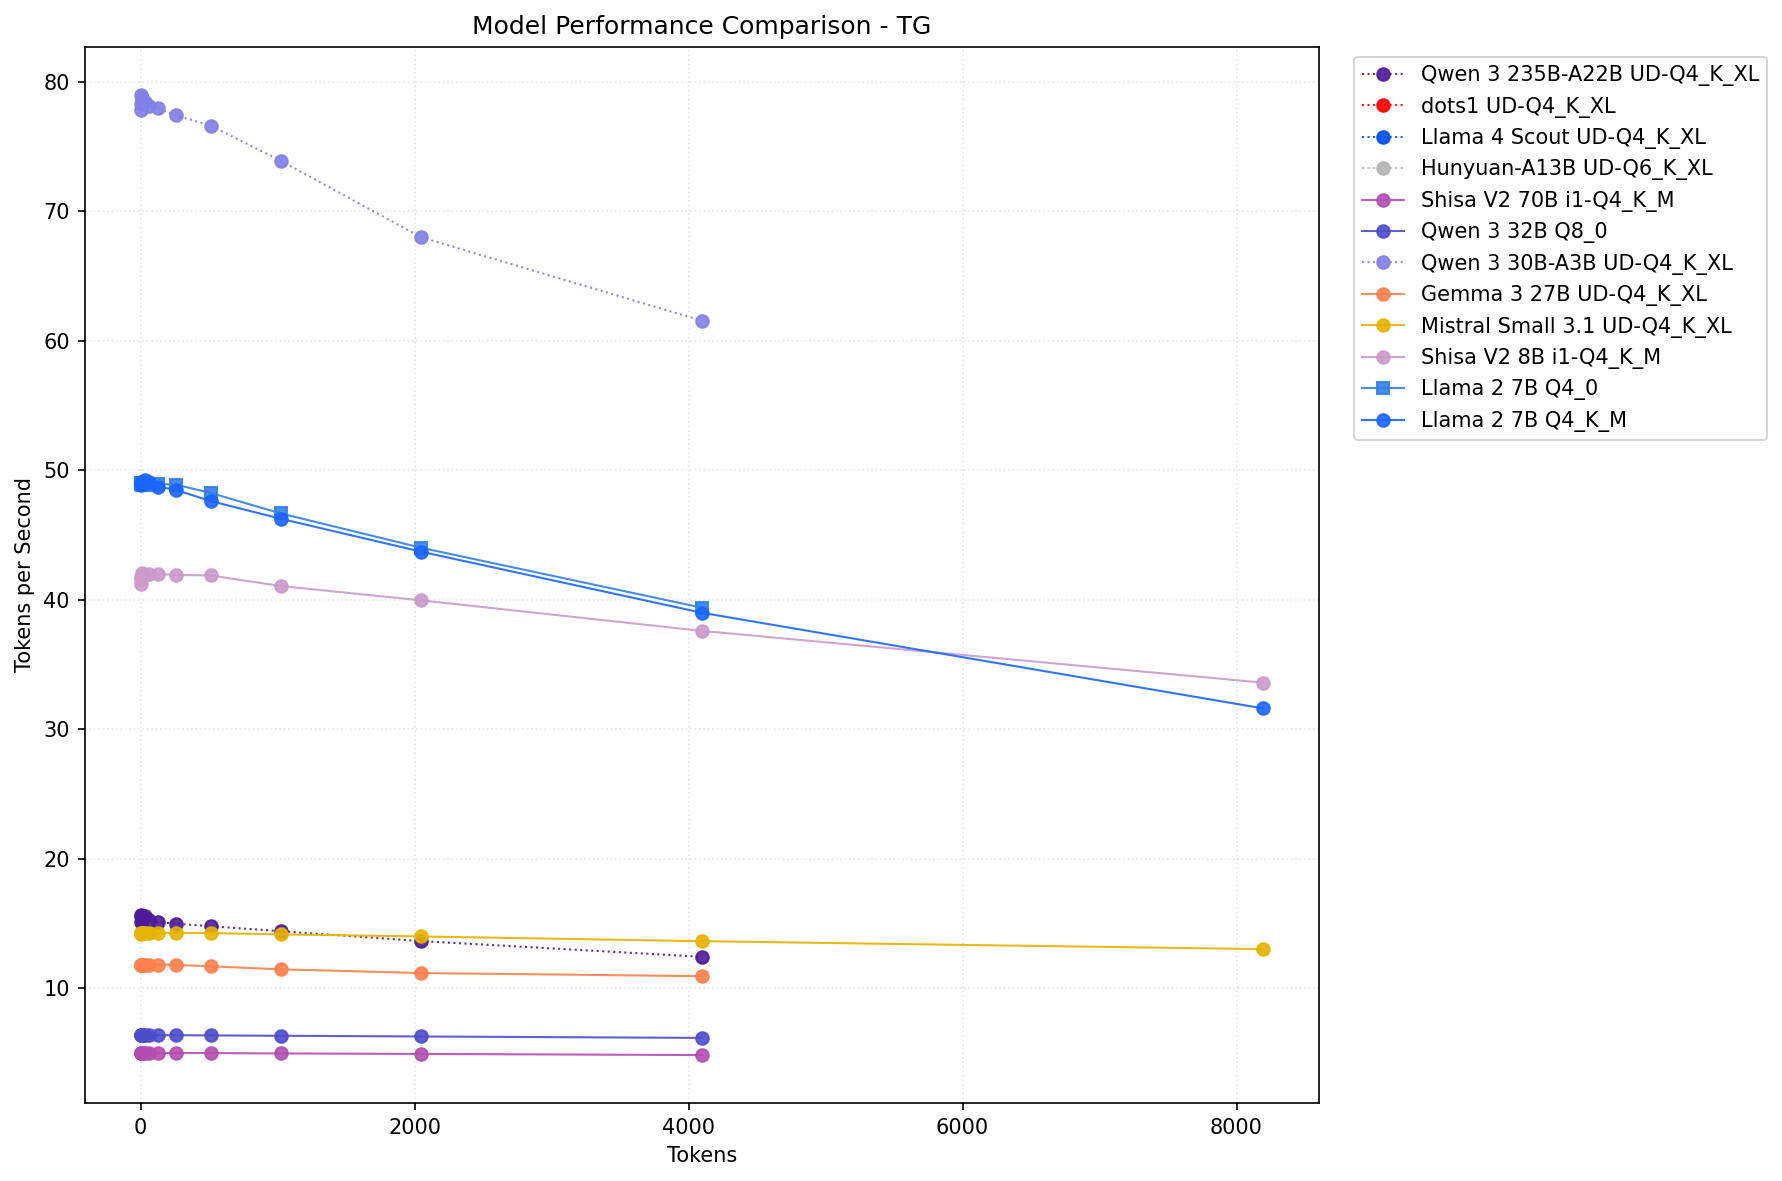
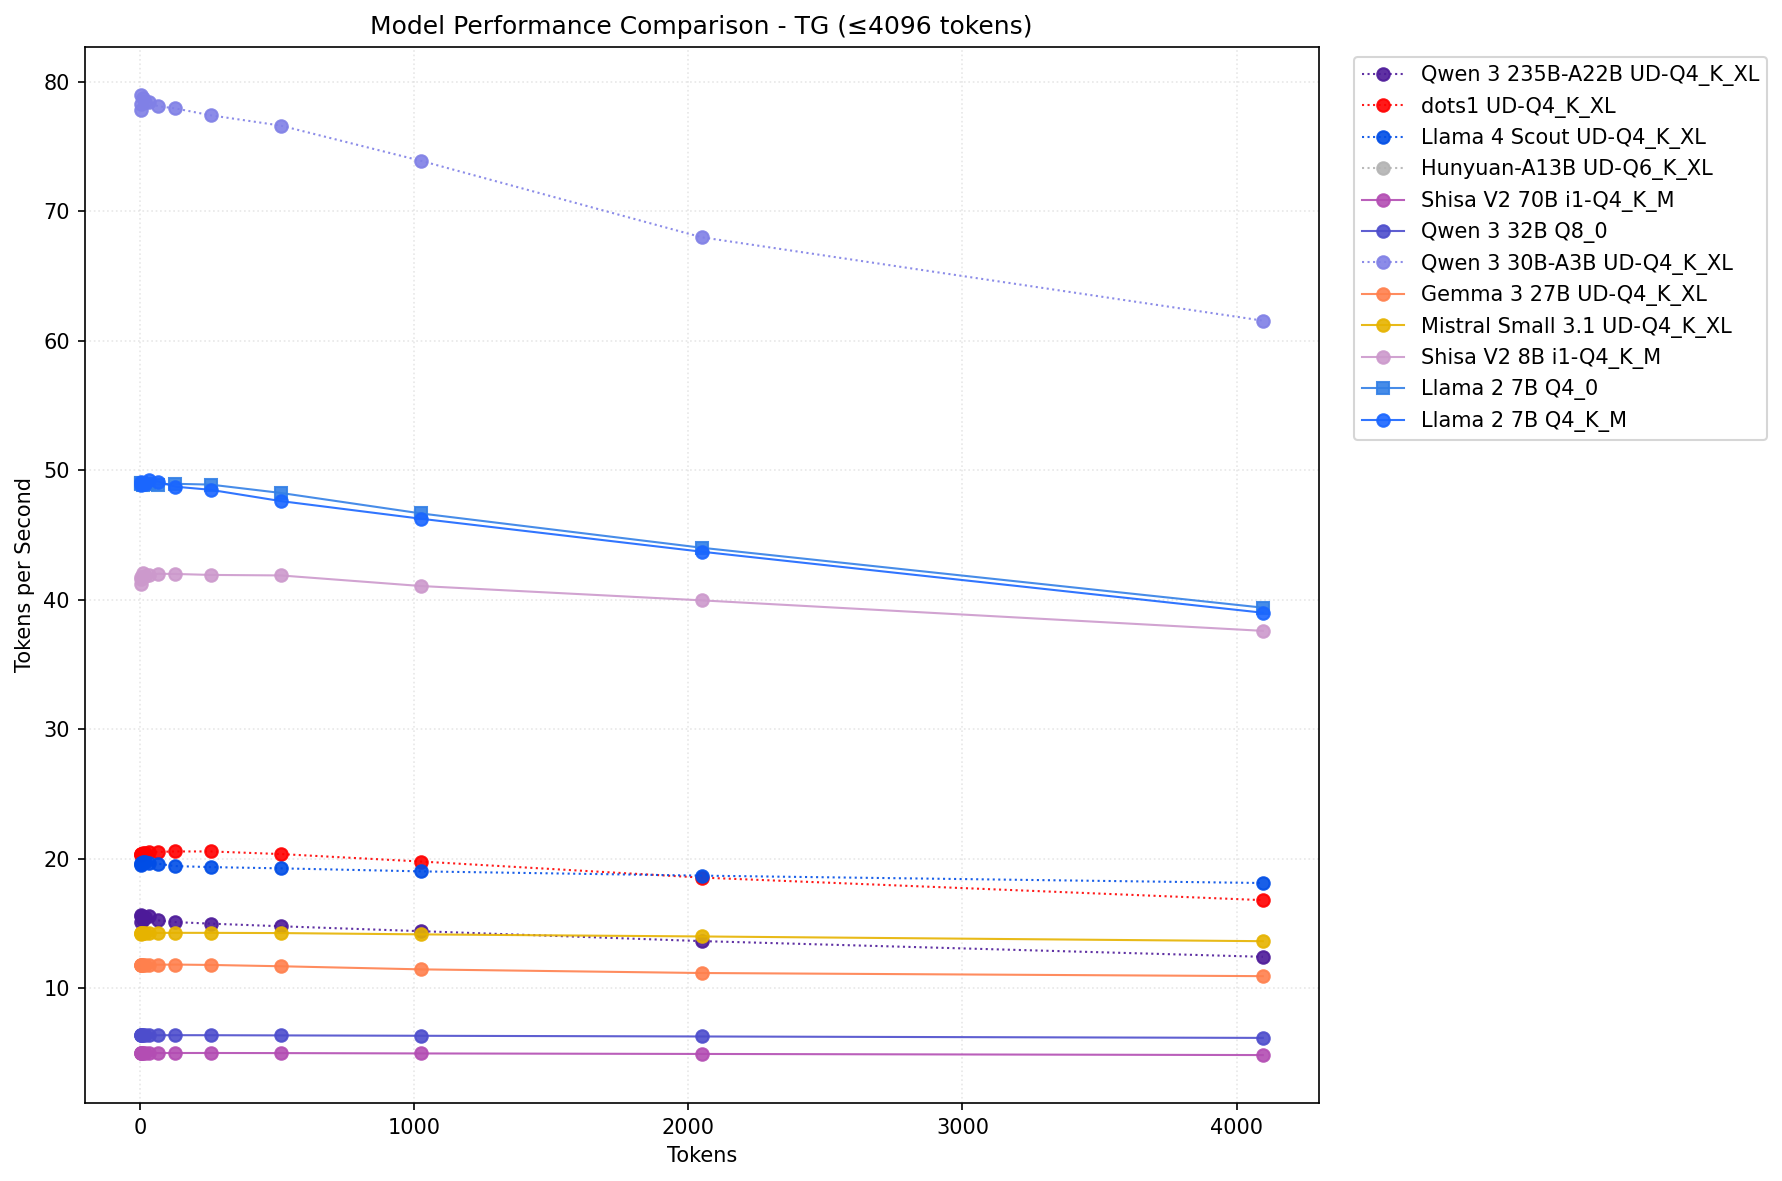
updated results

diff --git a/llm-bench/README.md b/llm-bench/README.md
@@ -70,30 +70,30 @@ You can reference the `[llama-cpp-bencher.py](llama-cpp-bencher.py)` directly fo
 
 | Model Name                   | Architecture   |   Weights (B) |   Active (B) | Backend     | Flags          |   pp512 |   tg128 |   Memory (Max MiB) |
 |------------------------------|----------------|---------------|--------------|-------------|----------------|---------|---------|--------------------|
-| dots1 UD-Q4_K_XL             | dots1 MoE      |           142 |           14 | Vulkan      | fa=1 b=256     |   nan   |   nan   |                161 |
-| Llama 4 Scout UD-Q4_K_XL     | Llama 4 MoE    |           109 |           17 | HIP         | hipBLASLt      |   nan   |   nan   |                161 |
 | Hunyuan-A13B UD-Q6_K_XL      | Hunyuan MoE    |            80 |           13 | Vulkan      | fa=1           |   nan   |   nan   |                161 |
 | Llama 2 7B Q4_0              | Llama 2        |             7 |            7 | Vulkan      |                |  1230.0 |    48.3 |               4323 |
 | Llama 2 7B Q4_K_M            | Llama 2        |             7 |            7 | HIP rocWMMA | fa=1 hipBLASLt |  1083.0 |    41.3 |               4720 |
 | Shisa V2 8B i1-Q4_K_M        | Llama 3        |             8 |            8 | HIP         | hipBLASLt      |   878.2 |    37.2 |               5308 |
 | Mistral Small 3.1 UD-Q4_K_XL | Mistral 3      |            24 |           24 | HIP         | hipBLASLt      |   316.9 |    13.6 |              14638 |
 | Gemma 3 27B UD-Q4_K_XL       | Gemma 3        |            27 |           27 | HIP         | hipBLASLt      |   302.2 |    10.7 |              17542 |
+| Llama 4 Scout UD-Q4_K_XL     | Llama 4 MoE    |           109 |           17 | HIP         | hipBLASLt      |   277.4 |    17.6 |              59720 |
 | Qwen 3 32B Q8_0              | Qwen 3         |            32 |           32 | HIP         | hipBLASLt      |   226.1 |     6.4 |              33683 |
 | Qwen 3 235B-A22B UD-Q4_K_XL  | Qwen 3 MoE     |           235 |           22 | HIP         | hipBLASLt      |   117.1 |    12.9 |              99950 |
 | Shisa V2 70B i1-Q4_K_M       | Llama 3        |            70 |           70 | HIP rocWMMA | hipBLASLt      |    94.7 |     4.5 |              41522 |
+| dots1 UD-Q4_K_XL             | dots1 MoE      |           142 |           14 | Vulkan      | fa=1 b=256     |    63.1 |    20.6 |              84077 |
 
 ### Text Generation (tg) Performance
 ![TG Performance](summary-results-tg.png)
 
 | Model Name                   | Architecture   |   Weights (B) |   Active (B) | Backend   | Flags          |   pp512 |   tg128 |   Memory (Max MiB) |
 |------------------------------|----------------|---------------|--------------|-----------|----------------|---------|---------|--------------------|
-| dots1 UD-Q4_K_XL             | dots1 MoE      |           142 |           14 | Vulkan    | fa=1 b=256     |   nan   |   nan   |                161 |
-| Llama 4 Scout UD-Q4_K_XL     | Llama 4 MoE    |           109 |           17 | Vulkan    | fa=1 b=256     |   nan   |   nan   |                161 |
 | Hunyuan-A13B UD-Q6_K_XL      | Hunyuan MoE    |            80 |           13 | Vulkan    | fa=1 b=256     |   nan   |   nan   |                161 |
 | Qwen 3 30B-A3B UD-Q4_K_XL    | Qwen 3 MoE     |            30 |            3 | Vulkan    | b=256          |   645.5 |    78.0 |              17377 |
 | Llama 2 7B Q4_0              | Llama 2        |             7 |            7 | HIP       | fa=1 hipBLASLt |   975.3 |    49.4 |               4429 |
 | Llama 2 7B Q4_K_M            | Llama 2        |             7 |            7 | Vulkan    | fa=1           |   787.6 |    48.7 |               4463 |
 | Shisa V2 8B i1-Q4_K_M        | Llama 3        |             8 |            8 | Vulkan    | fa=1           |   614.2 |    42.0 |               5333 |
+| dots1 UD-Q4_K_XL             | dots1 MoE      |           142 |           14 | Vulkan    | fa=1 b=256     |    63.1 |    20.6 |              84077 |
+| Llama 4 Scout UD-Q4_K_XL     | Llama 4 MoE    |           109 |           17 | Vulkan    | fa=1 b=256     |   157.8 |    19.4 |              59917 |
 | Qwen 3 235B-A22B UD-Q4_K_XL  | Qwen 3 MoE     |           235 |           22 | Vulkan    | fa=1           |   109.5 |    15.1 |             100446 |
 | Mistral Small 3.1 UD-Q4_K_XL | Mistral 3      |            24 |           24 | Vulkan    | fa=1           |   119.6 |    14.3 |              14540 |
 | Gemma 3 27B UD-Q4_K_XL       | Gemma 3        |            27 |           27 | Vulkan    | fa=1           |   114.7 |    11.8 |              18123 |
